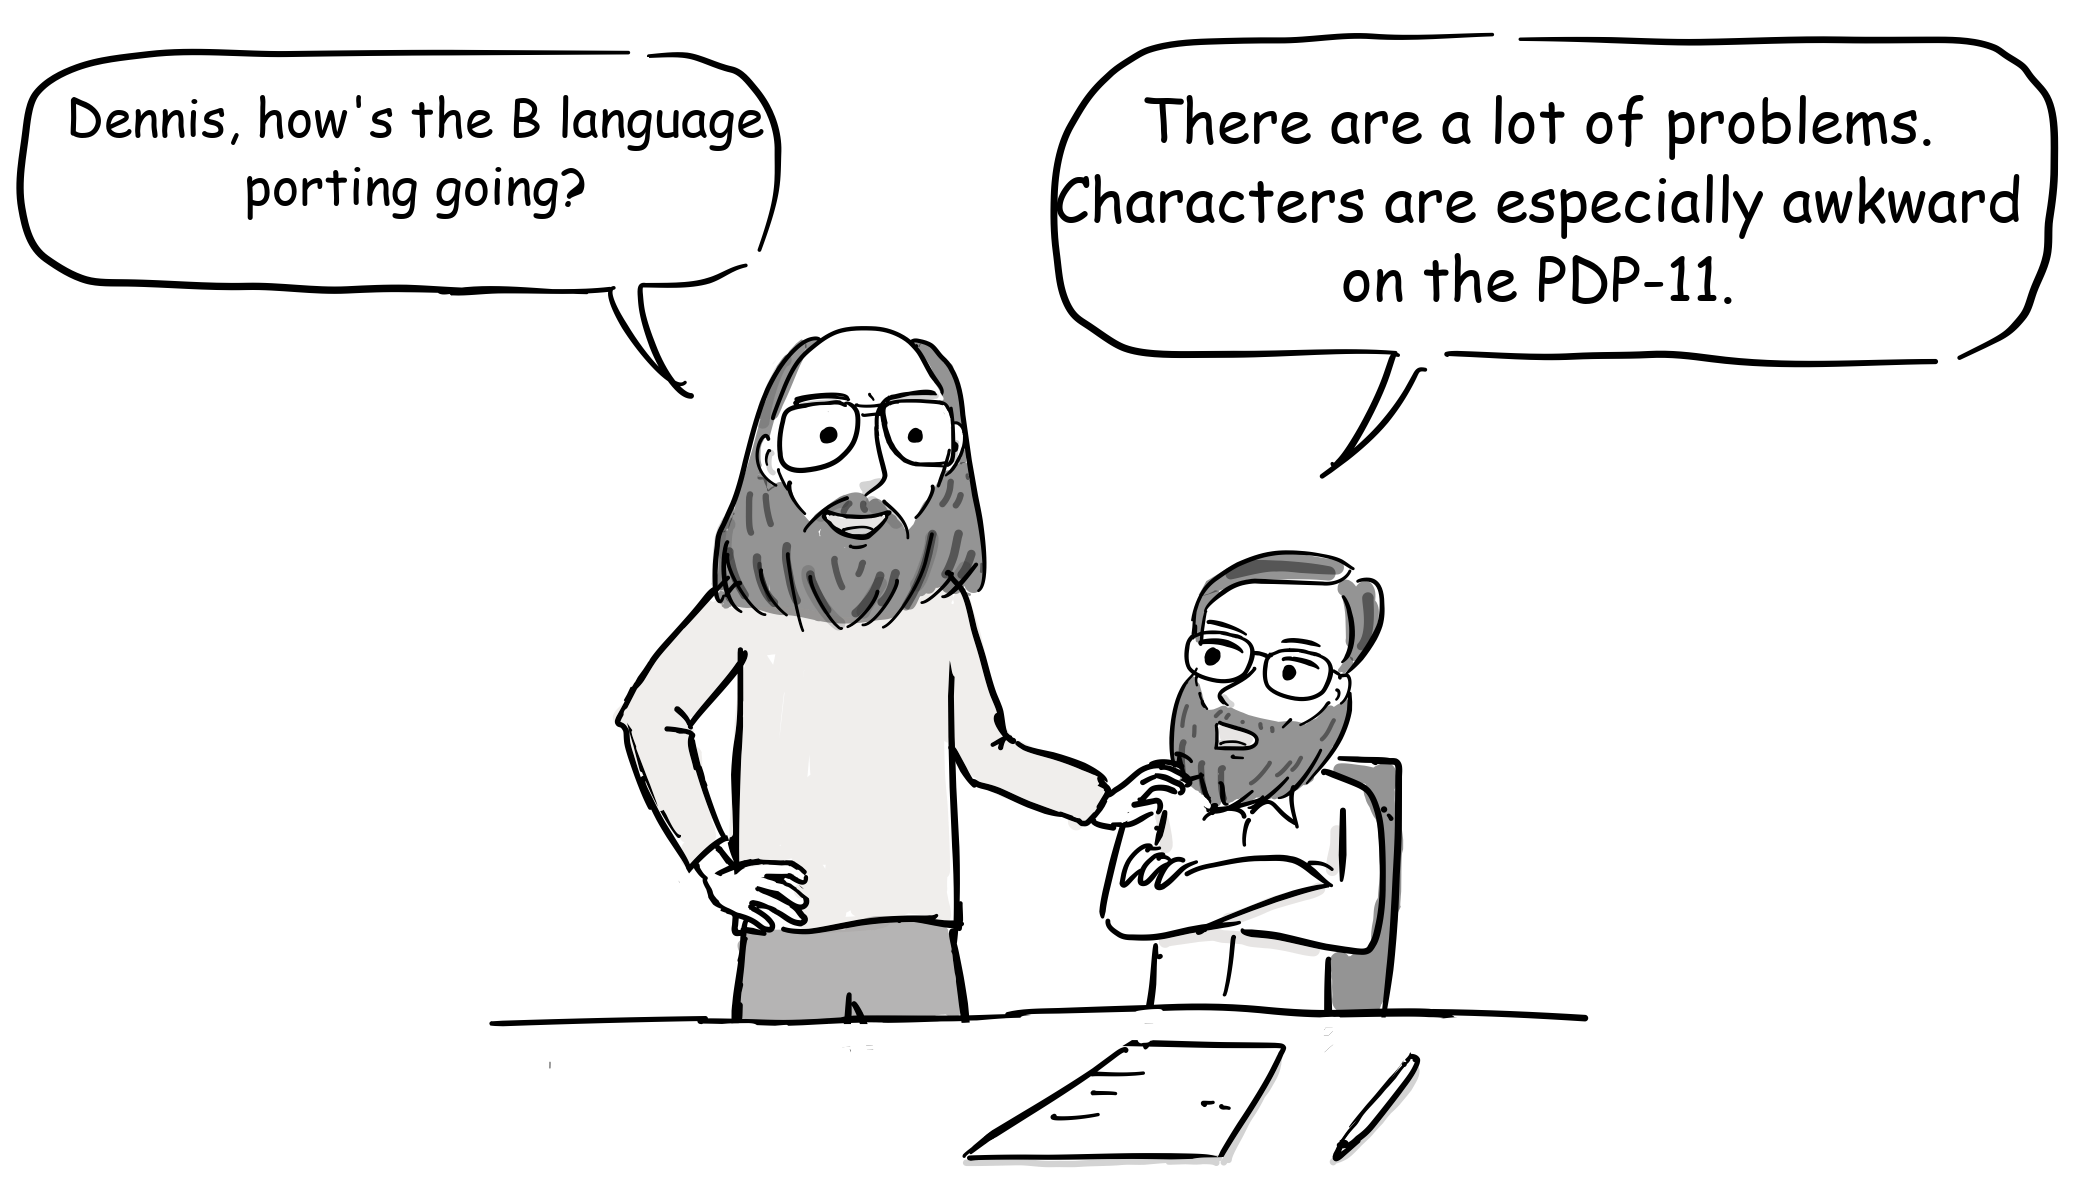
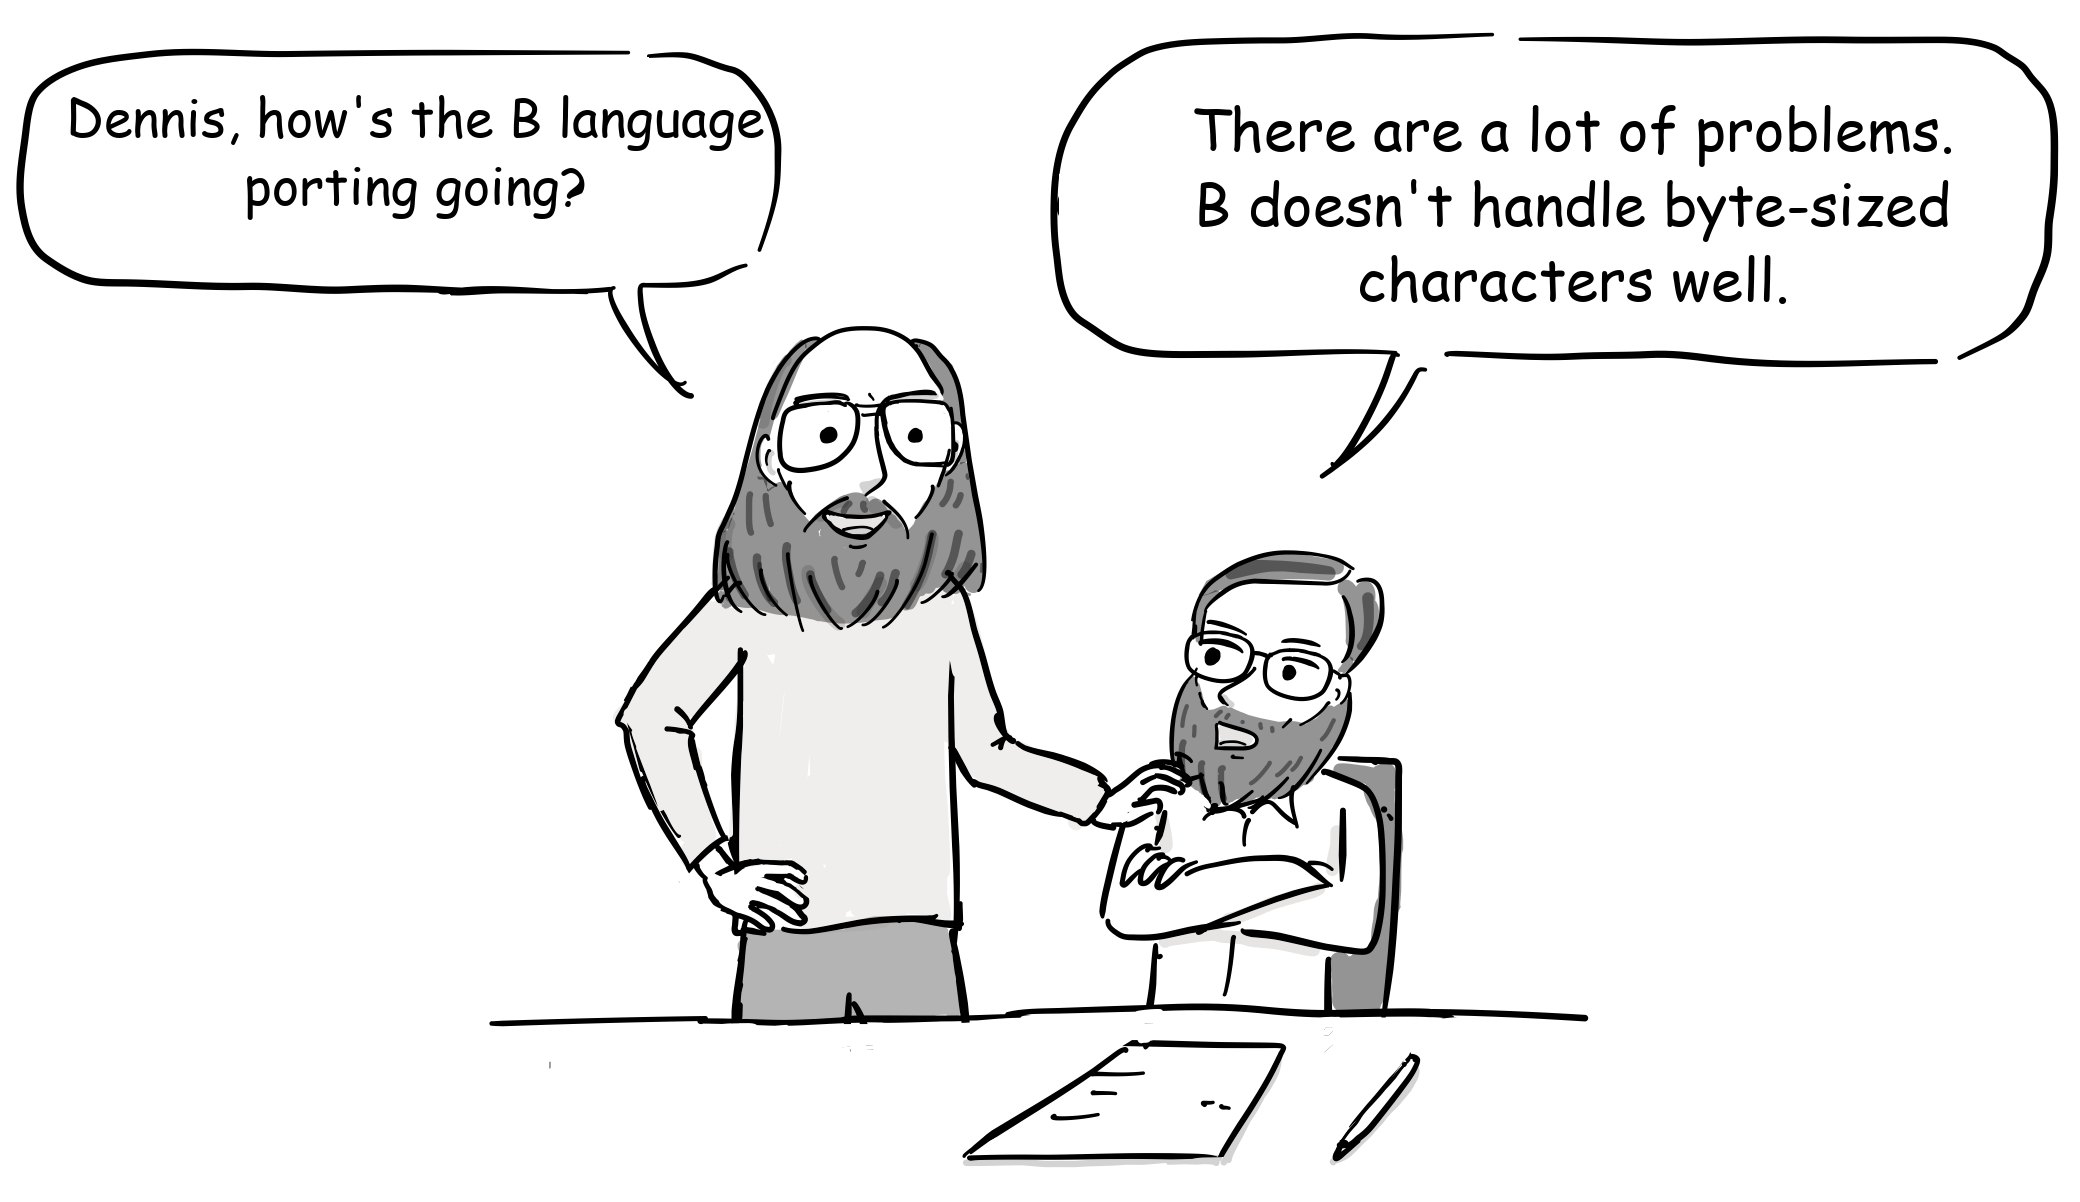
Clarify B language implementation details

Changed region(s): [[0.5, 0.0616, 0.9688, 0.277]]

diff --git a/content/posts/8. The Origins of Unix and the C Language/index.md b/content/posts/8. The Origins of Unix and the C Language/index.md
@@ -70,11 +70,11 @@ At the time, that was easier said than done. Thompson had created B for the earl
 ![](images/8_13.png)
 > "First we need to port the B language to the PDP-11, but there's a problem."
 
-In 1971, Ritchie began extending B with a character type and an explicit type system that included `int` and `char`. He also rewrote the compiler to generate PDP-11 machine code instead of threaded code. He called the short-lived language NB, for "New B."[&lbrack;3&rbrack;][3]
+In 1971, Ritchie began extending B with a character type and an explicit type system that included `int` and `char`. He also rewrote the compiler to generate PDP-11 machine code directly, instead of slower threaded code that invoked a sequence of prewritten low-level routines. He called the short-lived language NB, for "New B."[&lbrack;3&rbrack;][3]
 
 ![](images/8_14.png)
 > "Dennis, how's the B language porting going?" \
-> "There are a lot of problems. Characters are especially awkward on the PDP-11."
+> "There are a lot of problems. B doesn't handle byte-sized characters well."
 
 ![](images/8_15.png)
 > "Why not tear B apart and fix it properly?" \
